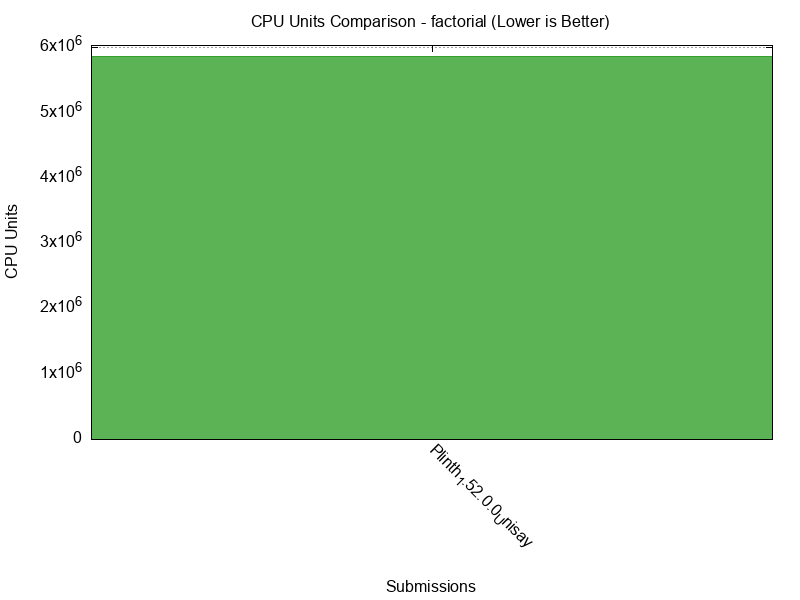
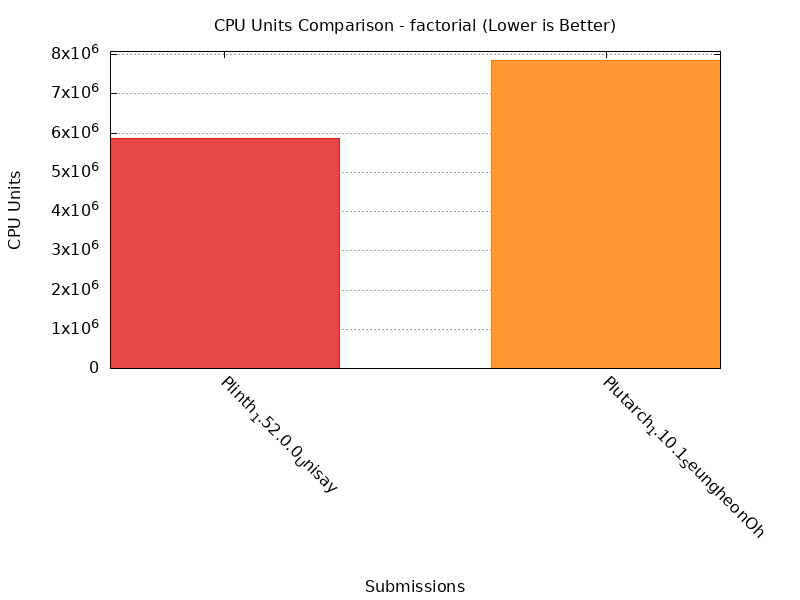
Plutach factorial submission

diff --git a/report/benchmarks/factorial.html b/report/benchmarks/factorial.html
@@ -150,7 +150,7 @@
     </div>
     
     <div class="timestamp">
-        Generated on: 2025-08-18 18:56:34 CEST
+        Generated on: 2025-08-20 01:29:56 CDT
     </div>
     
     <div class="benchmark-section">
@@ -193,7 +193,7 @@
             </thead>
             <tbody>
                 <tr>
-                    <td>2025-08-18T16:56:26Z</td>
+                    <td>2025-08-20T06:29:51Z</td>
                     <td>Plinth</td>
                     <td>1.52.0.0</td>
                     <td>Unisay</td>
@@ -202,6 +202,17 @@
                     <td class="numeric">37</td>
                     <td class="numeric">29</td>
                     <td><a href="https://github.com/IntersectMBO/UPLC-CAPE/blob/main/submissions/factorial/Plinth_1.52.0.0_Unisay/factorial.uplc" target="_blank" rel="noopener">🔗</a></td>
+                </tr>
+                <tr>
+                    <td>2025-08-20T06:29:51Z</td>
+                    <td>Plutarch</td>
+                    <td>Plutarch</td>
+                    <td>Seungheon Oh</td>
+                    <td class="numeric">7845912</td>
+                    <td class="numeric">28362</td>
+                    <td class="numeric">42</td>
+                    <td class="numeric">35</td>
+                    <td><a href="https://github.com/IntersectMBO/UPLC-CAPE/blob/main/submissions/factorial/Plutarch_1.10.1_SeungheonOh/factorial.uplc" target="_blank" rel="noopener">🔗</a></td>
                 </tr>
             </tbody>
         </table>

diff --git a/report/benchmarks/fibonacci.html b/report/benchmarks/fibonacci.html
@@ -150,7 +150,7 @@
     </div>
     
     <div class="timestamp">
-        Generated on: 2025-08-18 18:56:36 CEST
+        Generated on: 2025-08-20 01:29:57 CDT
     </div>
     
     <div class="benchmark-section">
@@ -193,7 +193,7 @@
             </thead>
             <tbody>
                 <tr>
-                    <td>2025-08-18T16:56:26Z</td>
+                    <td>2025-08-20T06:29:52Z</td>
                     <td>Plinth</td>
                     <td>1.49.0.0</td>
                     <td>Unisay</td>
@@ -204,7 +204,7 @@
                     <td><a href="https://github.com/IntersectMBO/UPLC-CAPE/blob/main/submissions/fibonacci/Plinth_1.49.0.0_Unisay/fibonacci.uplc" target="_blank" rel="noopener">🔗</a></td>
                 </tr>
                 <tr>
-                    <td>2025-08-18T16:56:26Z</td>
+                    <td>2025-08-20T06:29:52Z</td>
                     <td>Plinth</td>
                     <td>1.52.0.0</td>
                     <td>Unisay</td>
@@ -215,7 +215,7 @@
                     <td><a href="https://github.com/IntersectMBO/UPLC-CAPE/blob/main/submissions/fibonacci/Plinth_1.52.0.0_Unisay/fibonacci.uplc" target="_blank" rel="noopener">🔗</a></td>
                 </tr>
                 <tr>
-                    <td>2025-08-18T16:56:26Z</td>
+                    <td>2025-08-20T06:29:52Z</td>
                     <td>Aiken</td>
                     <td>1.1.17</td>
                     <td>KtorZ</td>

diff --git a/report/index.html b/report/index.html
@@ -85,7 +85,7 @@
     </div>
     
     <div class="timestamp">
-        Generated on: 2025-08-18 18:56:36 CEST
+        Generated on: 2025-08-20 01:29:57 CDT
     </div>
     
     <div class="benchmark-grid">

diff --git a/submissions/factorial/Plutarch_1.10.1_SeungheonOh/README.md b/submissions/factorial/Plutarch_1.10.1_SeungheonOh/README.md
@@ -1,0 +1,25 @@
+# Benchmark Implementation Notes
+
+**Scenario**: `factorial`
+
+**Submission ID**: `Plutarch_1.10.1_SeungheonOh` (Format: `Language_Version_GitHubHandle`)
+
+## Implementation Details
+
+- **Compiler**: `<compiler name and version>`
+- **Implementation Approach**: `<recursive|iterative|memoized>`
+- **Compilation Flags**: `<optional flags>`
+
+## Performance Results
+
+- See [metrics.json](metrics.json) for detailed performance measurements
+
+## Reproducibility
+
+- **Source Available**: `<true|false>`
+- **Source Repository**: `<URL or N/A>`
+- **Compilation Config**: describe any non-default parameters
+
+## Notes
+
+Describe any notable optimizations, deviations from the spec, or measurement conditions.
